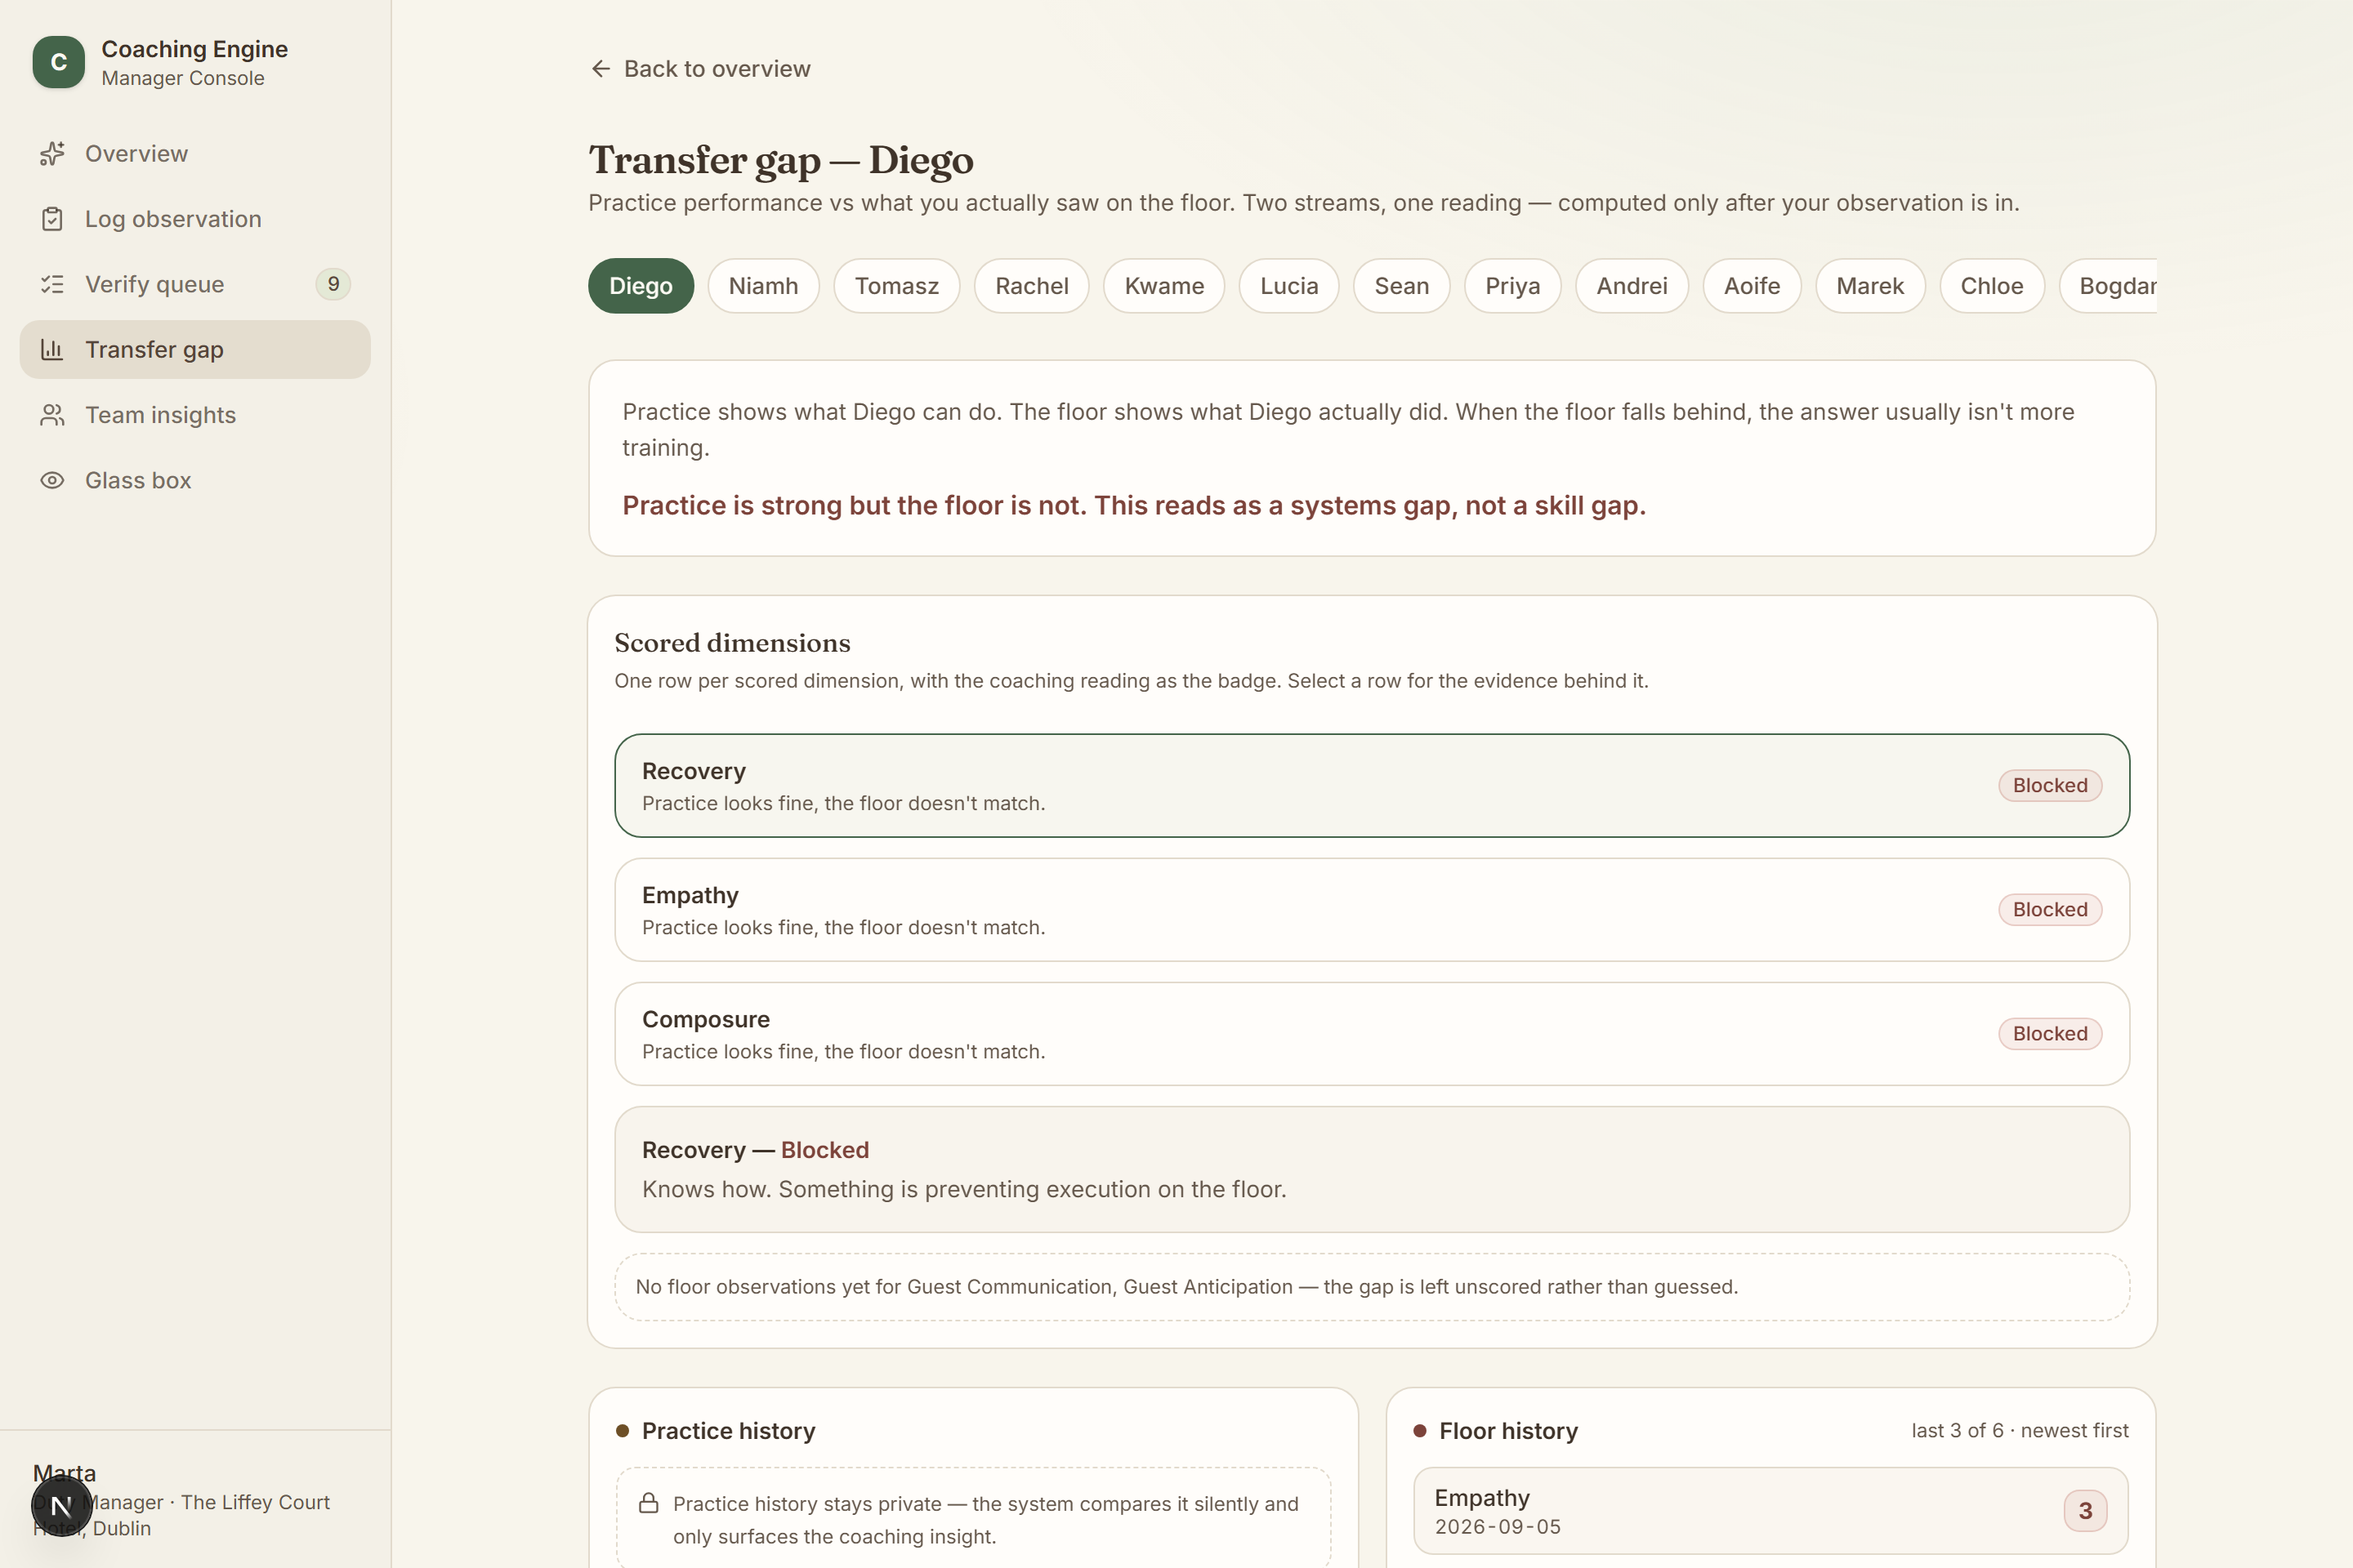
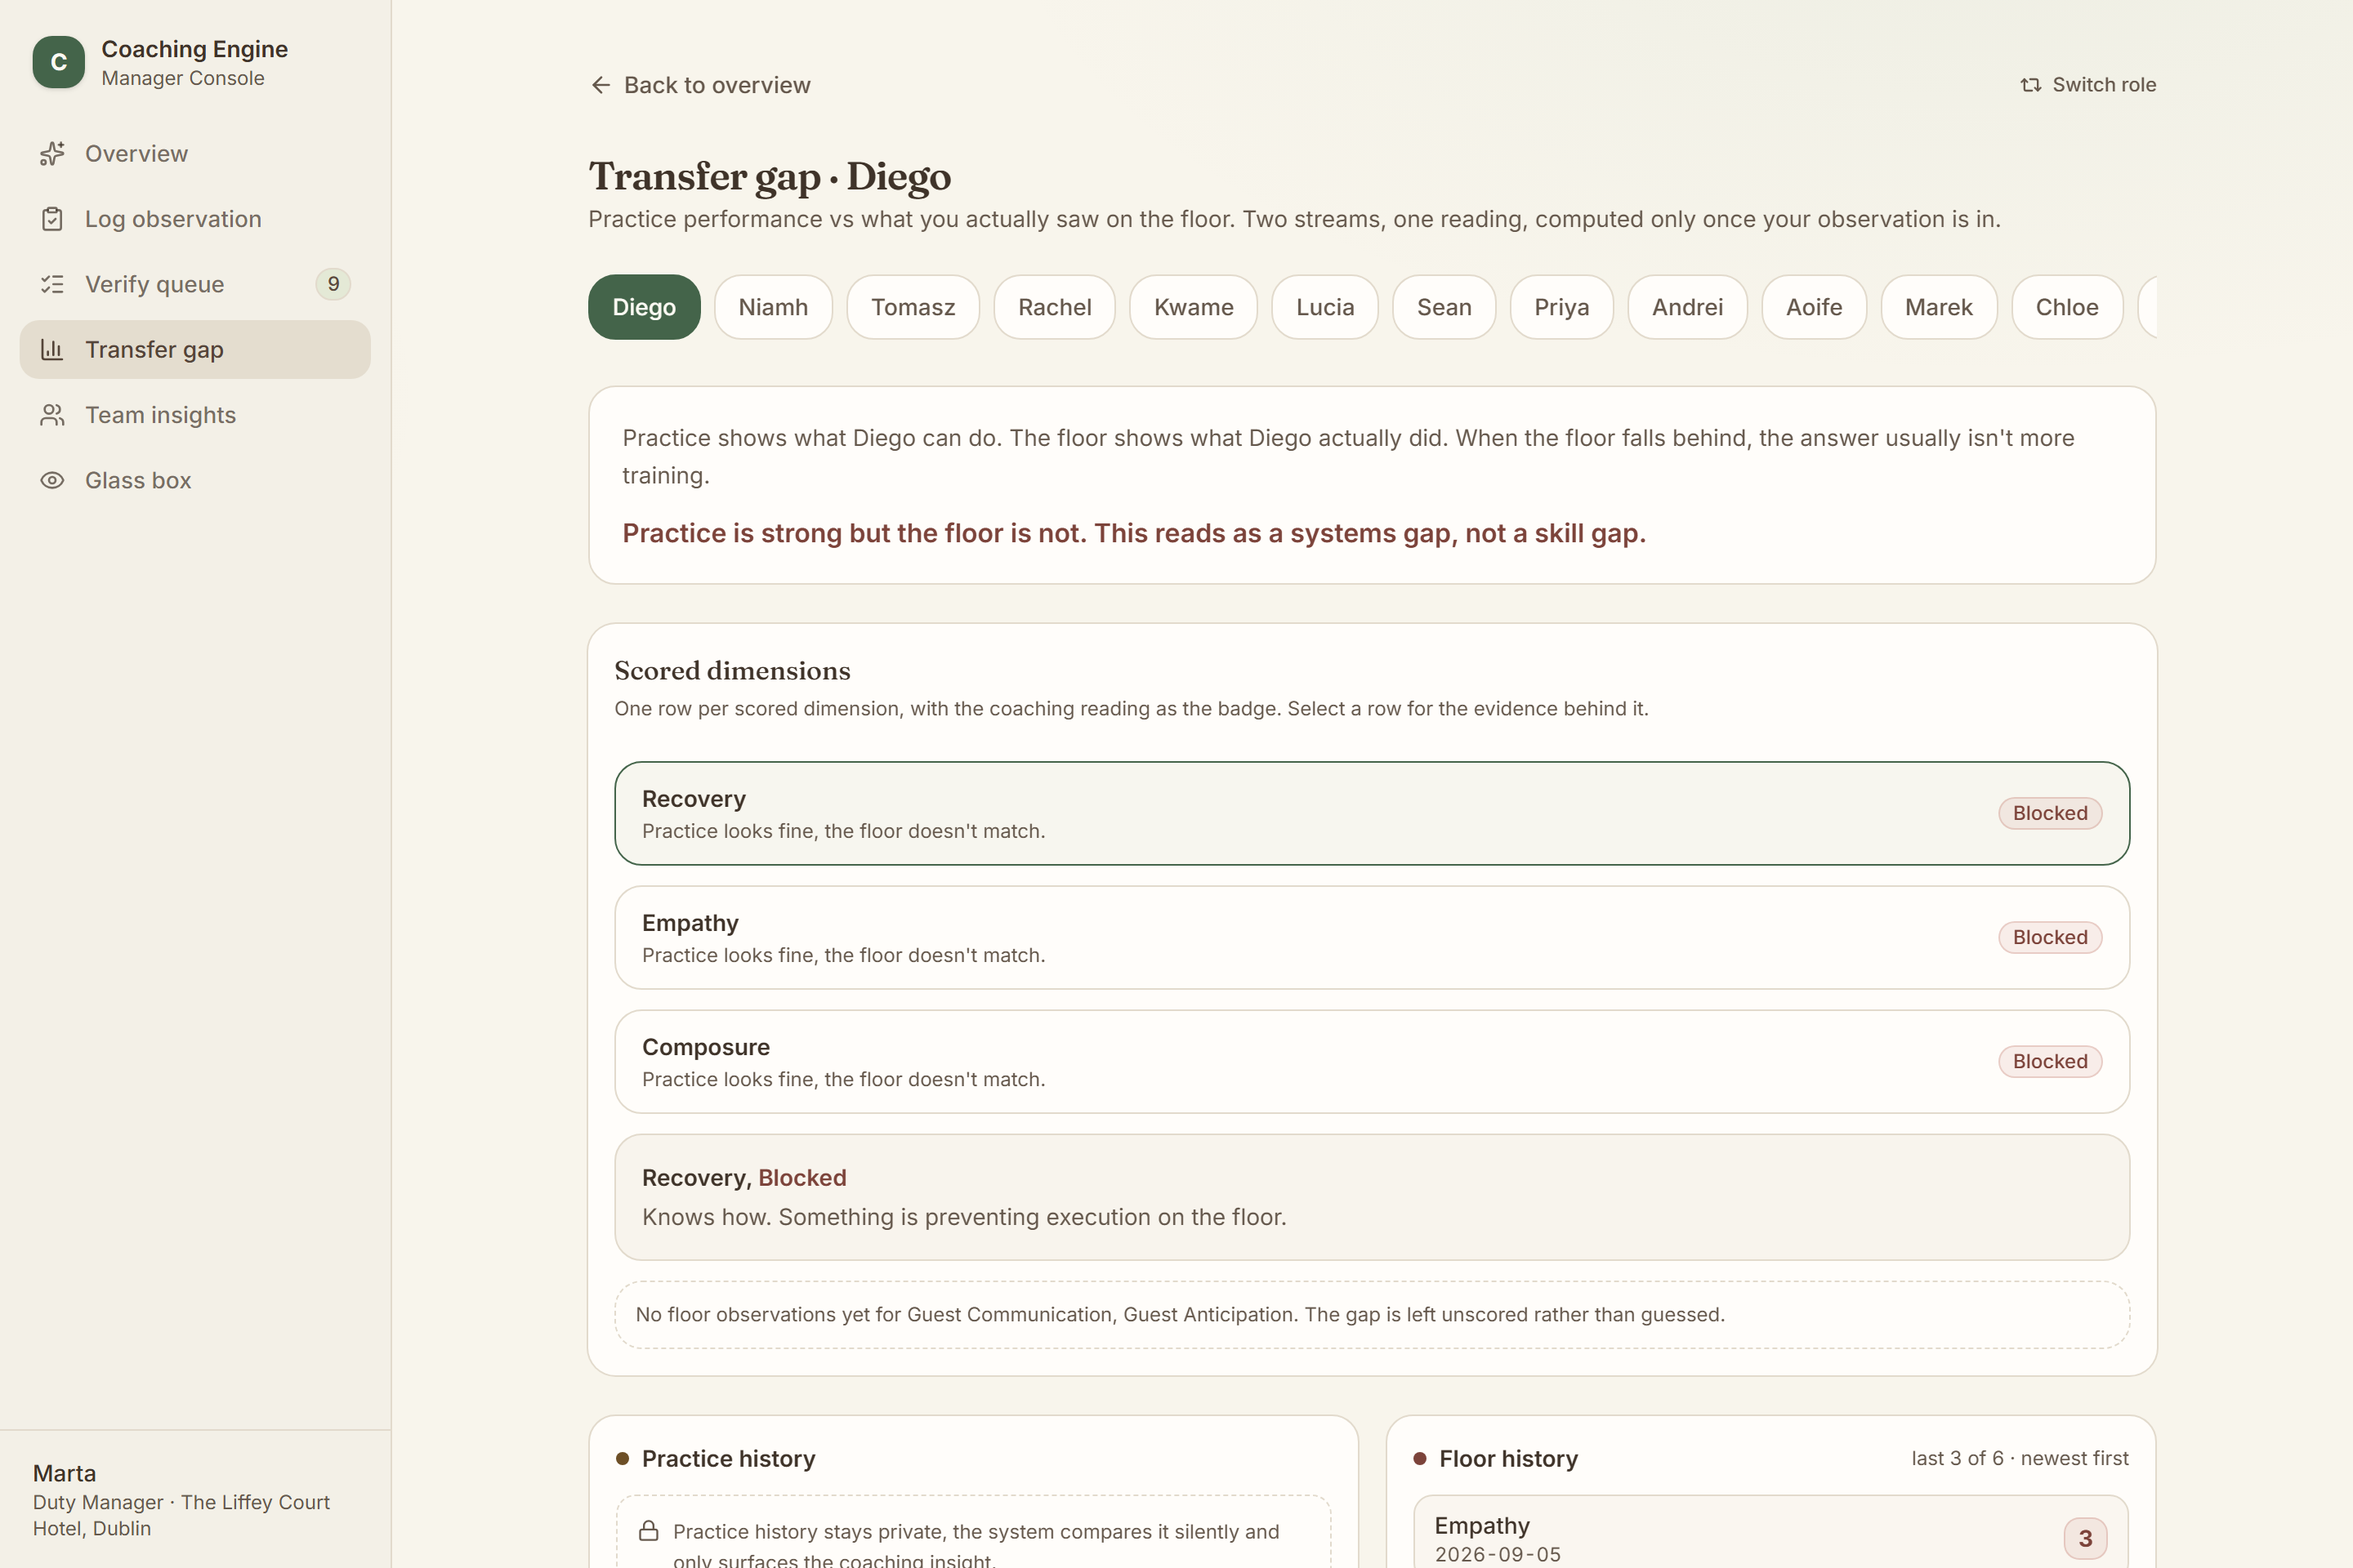
Update the docs for today's fixes, and correct two test counts
PROGRESS.md gains a "What changed today" section covering the four
rounds of fixes: the buttons that looked broken, the crash behind "Why
is the AI saying this?", the missing back links, and the phone work. The
"still to do" list now reflects that the slides, the script and the
walkthrough are finished, so the backup video is the biggest risk left,
and it names the four things nobody has clicked because they need a
microphone and a person.

Two counts in the README were wrong. The reasoning engine has 75 tests,
not 72, and the badge said 97 where the three suites now total 100 (75
unit, 10 negative RLS, 15 end to end). I counted these off the suites
rather than trusting the numbers already written down; the RLS one is
genuinely 10, since four of its cases are appended directly rather than
going through check().

The walkthrough screenshots are all re-captured against the deployed
site, so they show the navigation that was added today rather than the
UI as it was this morning. Cost $0.01, which is the one live agent run
the glass box panel makes.

Also adds the responsive audit to the pre-demo commands in the README,
since a site that breaks on a phone is a bug like any other and this one
needs no database and spends nothing.

The LaTeX progress report and product walkthrough in the shared drive
were updated and rebuilt to match.

diff --git a/PROGRESS.md b/PROGRESS.md
@@ -1,6 +1,6 @@
 # Where we are
 
-Last updated 11 September 2026.
+Last updated 11 September 2026, evening.
 
 Written so everyone can read it, not just the developers. If a section looks
 technical, skip it. The first two parts are the ones that matter to everybody.
@@ -18,7 +18,42 @@ technical, skip it. The first two parts are the ones that matter to everybody.
 It is not a mock or a slideshow. When you click something it talks to a real
 server, which reads a real database and calls real AI models.
 
-What is left is mostly not code. Slides, a rehearsal, and a backup video.
+**It also works properly on a phone now**, which it did not this morning.
+
+What is left is a rehearsal and a backup video.
+
+---
+
+## What changed today
+
+Worth reading if you looked at the site earlier and something annoyed you.
+
+**Buttons that looked broken.** Clicking "Open as Marta" appeared to do
+nothing for up to a minute, so people clicked again. The link was always
+right: the page was loading with no sign that anything was happening. Every
+screen now shows a skeleton straight away, and says "waking the server" if the
+wait runs long, which only happens on the free hosting after fifteen quiet
+minutes.
+
+**A crash.** Opening "Why is the AI saying this?" took the whole page down
+with the browser's own error screen. Our code expected one calibration reading
+and the server sends a list of them. Fixed, and the same wrong assumption was
+found in four other places that were failing silently, including the screen a
+manager uses to verify a recommendation.
+
+**No way back.** Ten of the thirteen screens had no back link. The glass box
+had no navigation at all, which mattered because it is linked from the manager
+menu, so anyone who opened it was stuck. Every screen now has a back link that
+goes up exactly one level and says where it goes, plus a "Switch role" link
+for getting out to the other app.
+
+**Phones.** A script now checks all ten screens at phone, tablet and laptop
+width for the three things that make a site unusable: content wider than the
+screen, buttons too small to tap, and screens with no way out. It found eleven
+problems. All eleven are fixed and it now passes everywhere.
+
+**Writing.** Every em dash is gone from the site, so it reads the same way as
+the slides and the documents.
 
 ---
 
@@ -78,8 +113,10 @@ nothing.
 
 | | |
 |---|---|
-| Database with access rules built in | done, 10 out of 10 security tests pass |
+| Database with access rules built in | done, 10 out of 10 negative tests pass |
 | The scoring and reasoning engine | done, 75 tests, no AI involved |
+| Works on a phone as well as a laptop | done, checked at three screen widths |
+| A way back from every screen | done, all 13 |
 | The API | done, every part tested end to end |
 | Manager console and staff app | done, live online |
 | Glass box | done, all three panels working |
@@ -115,18 +152,29 @@ All of them are connected and checked automatically before a demo.
 
 **Needs a person, not code:**
 
-1. **Slides.** Due Sunday at 2pm with the demo link. This is the main thing
-   left and nobody has started it as far as I know.
-2. **Backup video.** Record the demo on Saturday. The free hosting goes to
-   sleep after fifteen minutes and takes a minute to wake up, so we want a
-   video in case that bites us on stage.
+1. **Backup video.** Record the demo on Saturday. This is now the biggest
+   risk left. The free hosting goes to sleep after fifteen minutes and takes
+   up to a minute to wake, so we want a recording in case that bites us on
+   stage.
+2. **Rehearsal.** The pitch script is written and timed to 6:32 against a
+   7:00 hard stop, with five speakers and the handovers written out. It has
+   not been read aloud by the people saying it.
 3. **Pick one link for the submission.** There are two versions of the site
-   live. We should agree which one goes in.
+   live. Ziyi's is still on mock data. We should agree which one goes in and
+   pause the other.
 4. **Evaluation labels (Mary-Susan).** We have 45 test cases, but the
    "correct answers" were generated automatically and they are wrong. One
    labels a phone complaint about noise as being about eye contact. Until
    someone who knows the SOPs fixes them, we should not call it a golden set
    in the pitch.
+5. **The four things nobody has clicked.** Hearing the guest voice, speaking a
+   reply, recording a debrief, and logging an observation to watch the gate
+   open. They need a microphone and a person, so they cannot be tested
+   automatically, and they are the parts most likely to surprise us on stage.
+
+**Done since the last update:** the slides (12, with speaker notes), the
+pitch script, the product walkthrough, and the four rounds of site fixes
+above.
 
 **Small technical things:**
 

diff --git a/README.md b/README.md
@@ -8,7 +8,7 @@
 
 <br>
 
-![status](https://img.shields.io/badge/status-deployed%20and%20live-2E8B57?style=for-the-badge) ![tests](https://img.shields.io/badge/tests-97%20passing-0E7C86?style=for-the-badge) ![EU AI Act](https://img.shields.io/badge/EU%20AI%20Act-Annex%20III%204(b)-5B4B8A?style=for-the-badge) ![cost per run](https://img.shields.io/badge/cost%20per%20run-%240.005-B26A00?style=for-the-badge)
+![status](https://img.shields.io/badge/status-deployed%20and%20live-2E8B57?style=for-the-badge) ![tests](https://img.shields.io/badge/tests-100%20passing-0E7C86?style=for-the-badge) ![EU AI Act](https://img.shields.io/badge/EU%20AI%20Act-Annex%20III%204(b)-5B4B8A?style=for-the-badge) ![cost per run](https://img.shields.io/badge/cost%20per%20run-%240.005-B26A00?style=for-the-badge)
 
 **[▶ Open the live system](https://naic-2026-coaching-engine.vercel.app)** &nbsp;·&nbsp; **[🔍 Verify our claims](https://naic-2026-coaching-engine.vercel.app/glassbox)** &nbsp;·&nbsp; **[📊 Progress](PROGRESS.md)** &nbsp;·&nbsp; **[🔌 API guide](API-INTEGRATION.md)** &nbsp;·&nbsp; **[📸 Screenshots](docs-assets/walkthrough)**
 
@@ -200,10 +200,21 @@ cd web && pnpm install && pnpm dev
 Run these three, in this order. About a minute together.
 
 ```bash
-cd services/agent && python -m pytest -q     # 72 tests, the reasoning
+cd services/agent && python -m pytest -q     # 75 tests, the reasoning
 python db/test_rls.py                        # 10 negative tests, the isolation
 python tests/test_e2e.py                     # 15 checks, the whole system
 ```
+
+And one more that costs nothing and needs no database, because a site that breaks on a phone is
+a bug like any other:
+
+```bash
+python scripts/responsive_audit.py                        # local build on :3100
+python scripts/responsive_audit.py https://naic-2026-coaching-engine.vercel.app
+```
+
+It drives all ten screens at 360, 768 and 1280 and fails on content wider than the viewport, tap
+targets under 36px, or any screen with no way back. It exits non-zero, so it can gate a deploy.
 
 `tests/test_e2e.py --skip-ai` skips anything that spends tokens. That is the one to run in a loop
 while you are working.
@@ -319,10 +330,11 @@ db/
   test_rls.py     Ten negative tests. They must all pass
 services/
   agent/          The tested deterministic core: transfer gap, cite gate,
-                  calibration, routing. 72 unit tests, no I/O, no model calls
+                  calibration, routing. 75 unit tests, no I/O, no model calls
   api/            FastAPI. Every endpoint, the agent graph, the providers
 web/              Next.js. Manager console, staff PWA, and /glassbox
-scripts/          bootstrap.py, deploy_db.py, walkthrough.py
+scripts/          bootstrap.py, deploy_db.py, walkthrough.py,
+                  responsive_audit.py, gen_readme_art.py
 tests/            test_e2e.py, the whole system over HTTP
 evals/            redteam attack suite, retrieval evaluation
 data-generation/  Deterministic synthetic dataset, 48 staff
